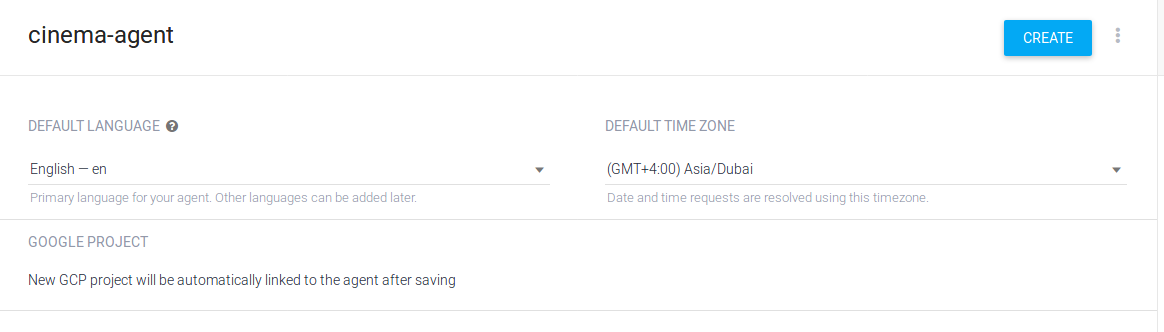
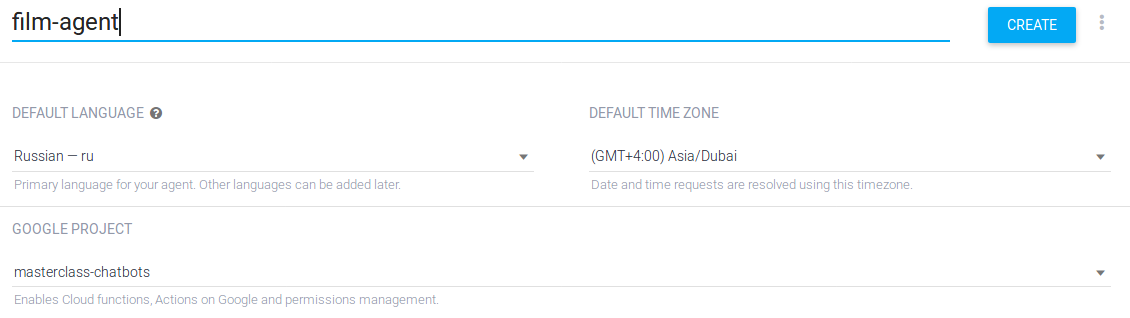
Add DF integration docs

diff --git a/README.md b/README.md
@@ -107,7 +107,7 @@
 ### 4.1 Нажать создать агента
 ![](https://raw.githubusercontent.com/maxkarelov/masterclass-chatbots/master/docs/create_agent_1.png)
 
-### 4.2 Выбрать название
+### 4.2 Выбрать название и указать google cloud project: masterclass-chatbots
 ![](https://raw.githubusercontent.com/maxkarelov/masterclass-chatbots/master/docs/create_agent_2.png)
 
 ### 4.3 Выбрать язык
@@ -173,3 +173,12 @@
 
 ### 7.5 Протестировать бота
 ![](https://raw.githubusercontent.com/maxkarelov/masterclass-chatbots/master/docs/create_webhook_4.png)
+
+## 8 Интеграция vk и dialogflow
+### 8.1 Скопировать project-id dialogflow агента
+![](https://raw.githubusercontent.com/maxkarelov/masterclass-chatbots/master/docs/integrate_1.png)
+
+### 8.2 Отредактировать функцию botHandler
+#### 8.2.1 Указать DF_PROJECT_ID
+#### 8.2.2 Заменить echoMessage(user_id, message) на handleMessage(user_id, message)
+![](https://raw.githubusercontent.com/maxkarelov/masterclass-chatbots/master/docs/integrate_2.png)
